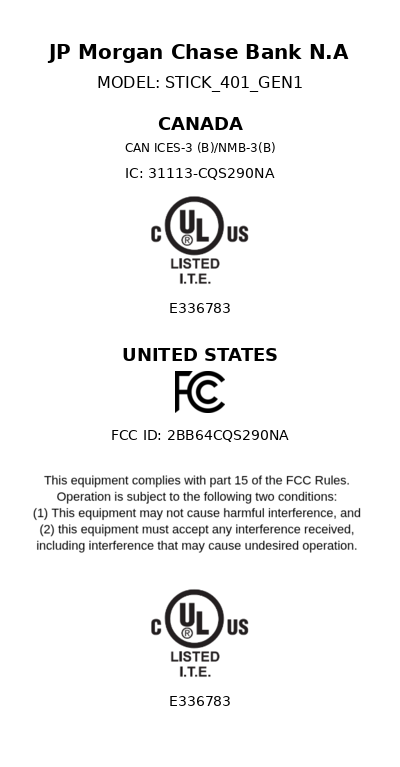
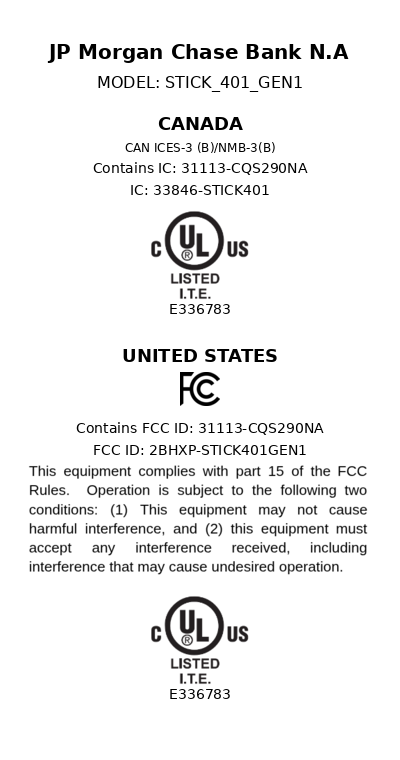
elabel: update stick elabel

diff --git a/elabel/generate_elabel.py b/elabel/generate_elabel.py
@@ -12,6 +12,8 @@ MARGIN = 40
 LINE_SPACING = 14
 LOGO_MAX_SIZE = 150
 
+NO_SPACING = 1
+
 FONT_SIZES = {
     "title": 20,
     "content": 12,
@@ -32,17 +34,19 @@ def wrap_text(text, font, max_width):
         lines.extend(wrapped if wrapped else [''])
     return lines
 
-def draw_centered_text(draw, text, y, font, image_width):
+def draw_centered_text(draw, text, y, font, image_width, no_spacing: int = 0):
     lines = wrap_text(text, font, image_width - 2 * MARGIN)
     for line in lines:
         bbox = font.getbbox(line)
         w = bbox[2] - bbox[0]
         h = bbox[3] - bbox[1]
         draw.text(((image_width - w) / 2, y), line, fill="black", font=font)
-        y += h + LINE_SPACING
+        y = y + h + LINE_SPACING
+        if no_spacing == NO_SPACING:
+            y = y - 5
     return y
 
-def draw_centered_logo(image, logo_filename, max_width, y):
+def draw_centered_logo(image, logo_filename, max_width, y, no_spacing: int = 0):
     path = os.path.join(LOGOS_PATH, logo_filename)
     if not os.path.exists(path):
         print(f"⚠ Logo not found: {path}")
@@ -51,6 +55,8 @@ def draw_centered_logo(image, logo_filename, max_width, y):
     logo.thumbnail((max_width, max_width))
     x = (image.width - logo.width) // 2
     image.paste(logo, (x, y), logo)
+    if no_spacing == NO_SPACING:
+        return y + logo.height
     return y + logo.height + LINE_SPACING
 
 def fill_content_to_image(draw, image, data, font_bold_name, font_regular_name, max_width):
@@ -87,21 +93,23 @@ def fill_content_to_image(draw, image, data, font_bold_name, font_regular_name, 
 
         if "ices" in country:
             ices = country["ices"]
-            y = draw_centered_text(draw, ices.get("standards", ""), y, font_text, image_width)
+            y = draw_centered_text(draw, ices.get("standards", ""), y, font_text, image_width, NO_SPACING)
+            y = draw_centered_text(draw, f"Contains IC: {ices.get('cavli_code', '')}", y, font_code, image_width, NO_SPACING)
             y = draw_centered_text(draw, f"IC: {ices.get('code', '')}", y, font_code, image_width)
 
         if "fcc" in country:
             fcc = country["fcc"]
             if "logo" in fcc:
                 y = draw_centered_logo(image, fcc["logo"], max_width, y)
-            y = draw_centered_text(draw, f"FCC ID: {fcc.get('code', '')}", y, font_code, image_width)
+            y = draw_centered_text(draw, f"Contains FCC ID: {ices.get('cavli_code', '')}", y, font_code, image_width, NO_SPACING)
+            y = draw_centered_text(draw, f"FCC ID: {fcc.get('code', '')}", y, font_code, image_width, NO_SPACING)
             if "statement" in fcc:
                 y = draw_centered_logo(image, fcc["statement"], max_width, y)
 
         if "culus" in country:
             culus = country["culus"]
             if "logo" in culus:
-                y = draw_centered_logo(image, culus["logo"], max_width, y)
+                y = draw_centered_logo(image, culus["logo"], max_width, y, NO_SPACING)
             y = draw_centered_text(draw, f"{culus.get('code', '')}", y, font_code, image_width)
 
         y += 10
